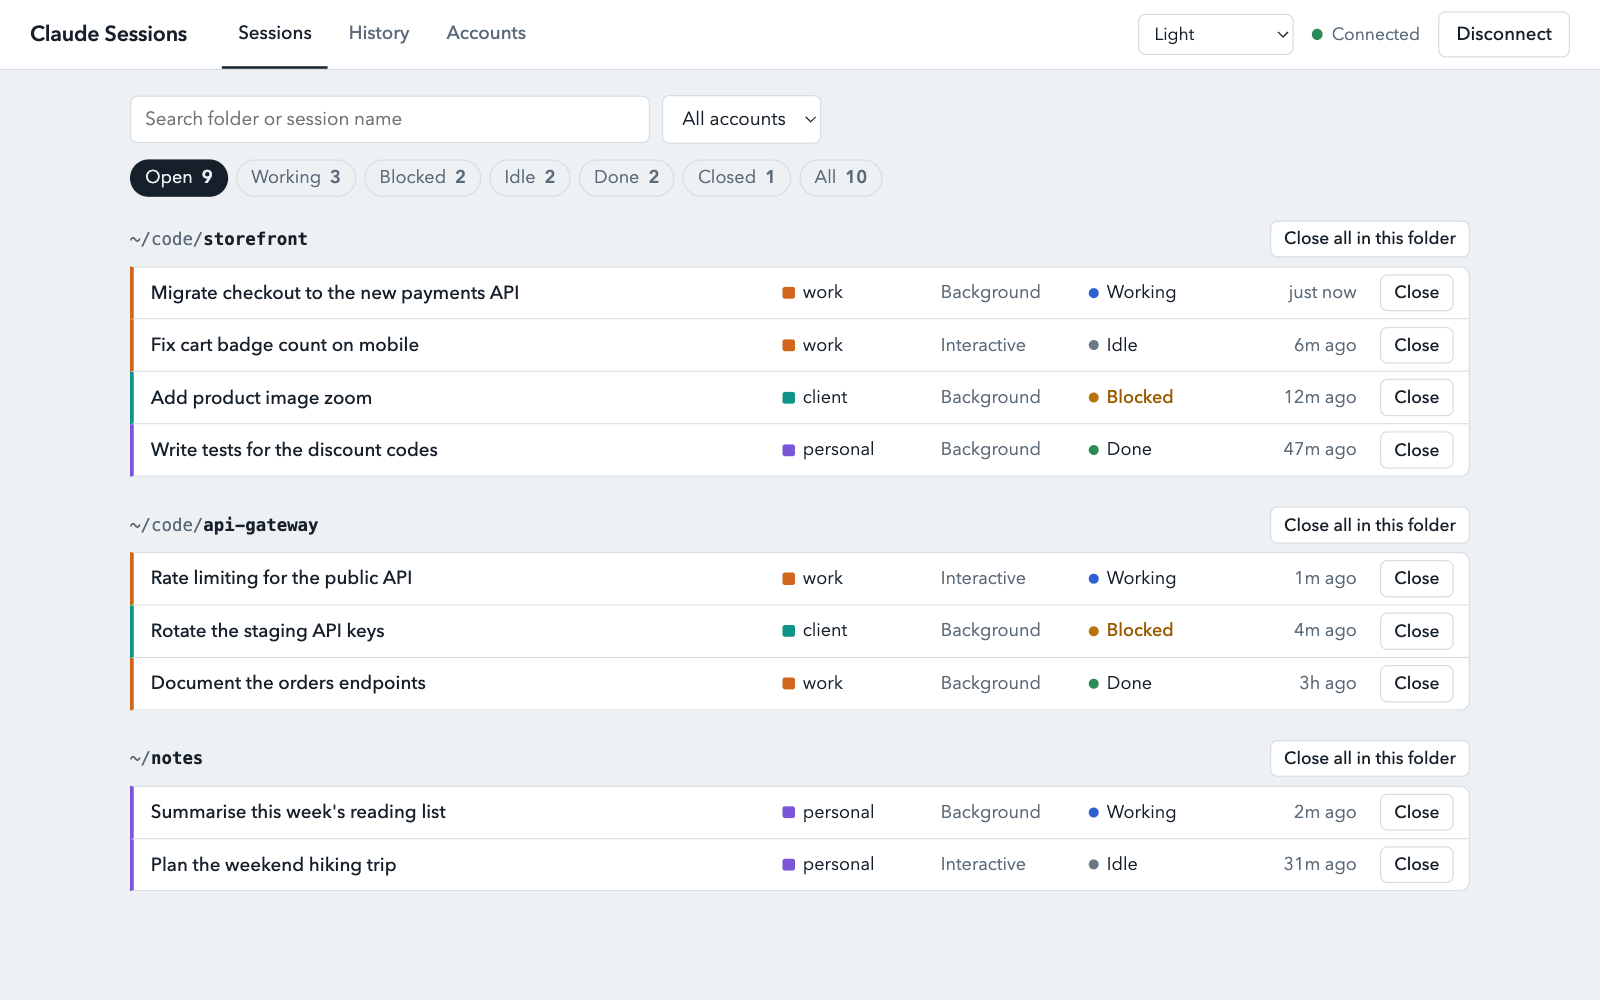
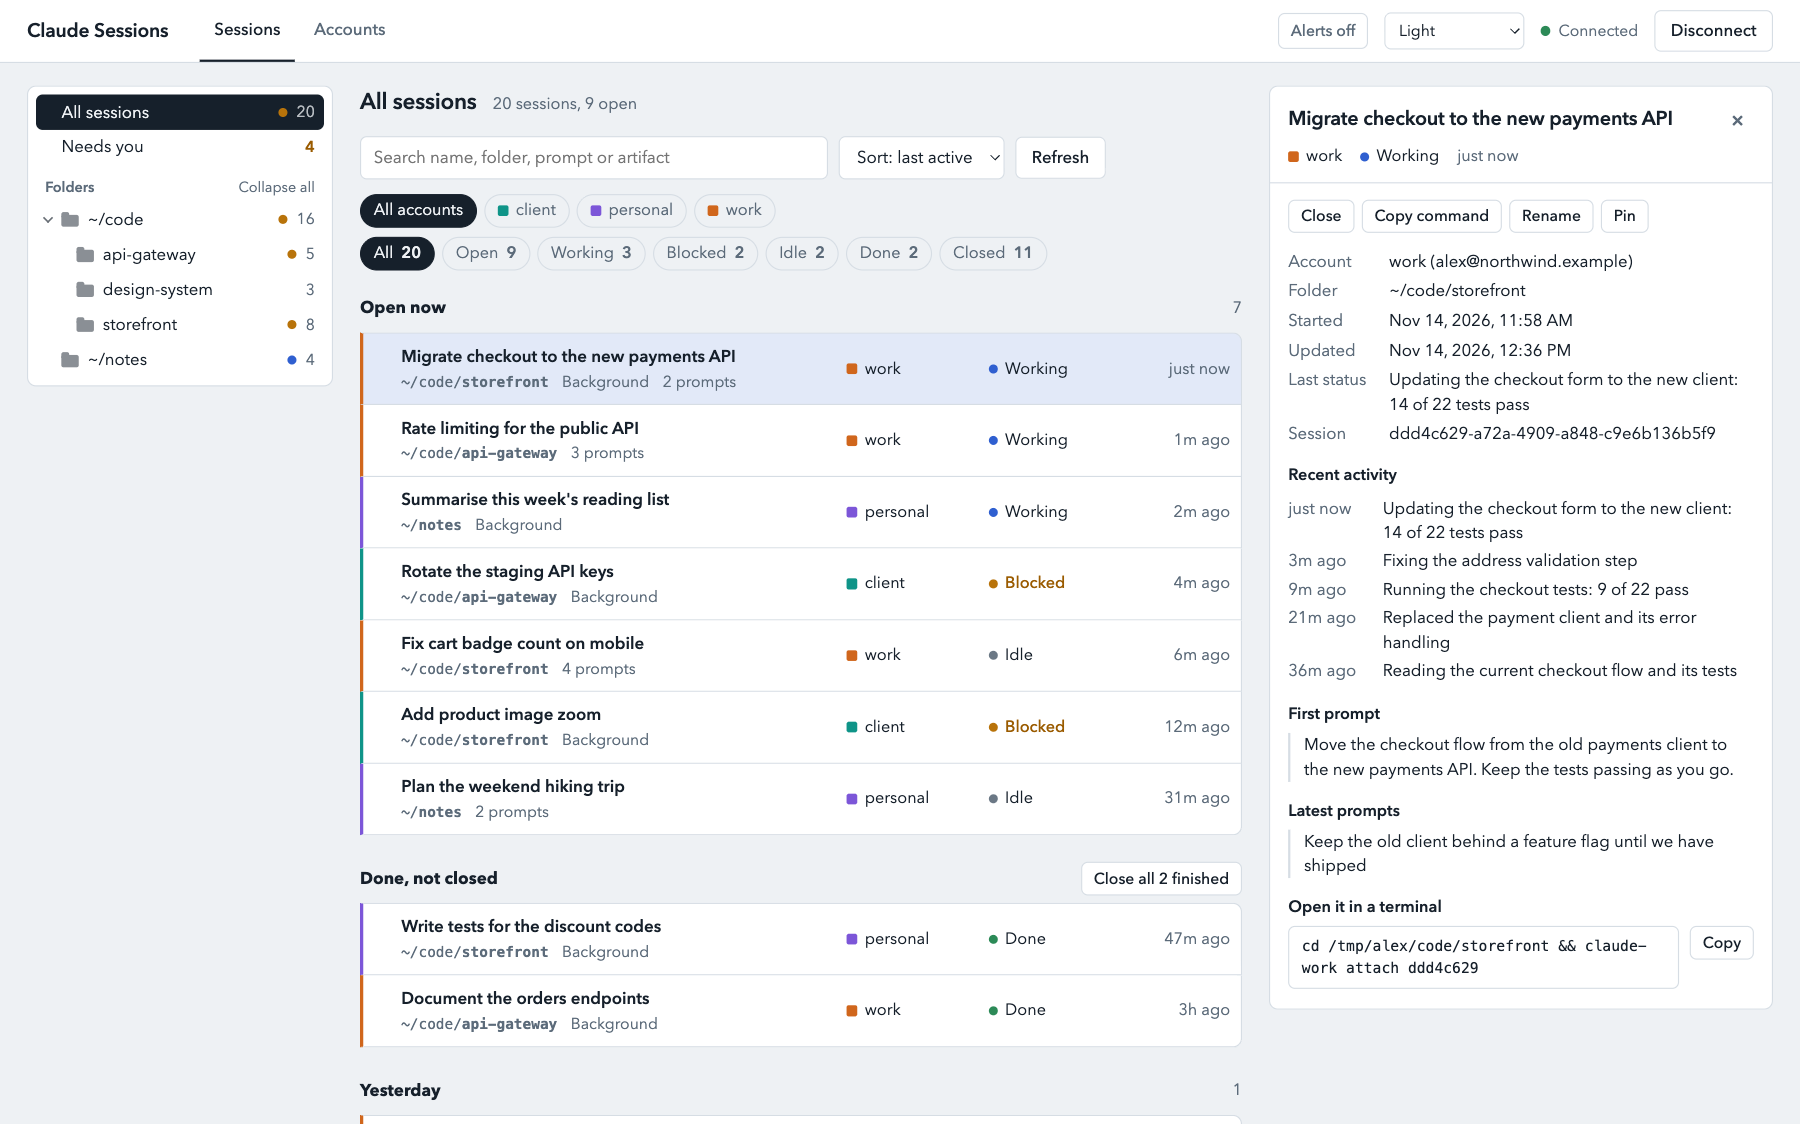
Retake the README screenshot in the new layout
The demo script gains --still, which takes only docs/demo.png: wider than
the video, with a session's details open in the panel.

diff --git a/README.md b/README.md
@@ -13,7 +13,7 @@ It is an unofficial tool and is not affiliated with Anthropic.
 
 ## See it
 
-[![The Sessions view, with sessions from three accounts grouped by folder](docs/demo.png)](docs/demo.mp4)
+[![The Sessions view: a folder tree, sessions from three accounts in one list, and the details of the picked session beside it](docs/demo.png)](docs/demo.mp4)
 
 A one-minute narrated tour of the page: [docs/demo.mp4](docs/demo.mp4). It uses made-up demo data.
 

diff --git a/docs/record-demo/README.md b/docs/record-demo/README.md
@@ -8,6 +8,9 @@ cargo build --release
 node docs/record-demo/record.mjs
 ```
 
+For the screenshot alone, add `--still`: it skips the narration and the recording, so
+it needs neither the voice nor ffmpeg.
+
 It needs Node 22 or later, Google Chrome, and ffmpeg with ffprobe (and libx264). Set
 `CHROME`, `FFMPEG` or `FFPROBE` if they are not in the usual place. It was written on macOS.
 
